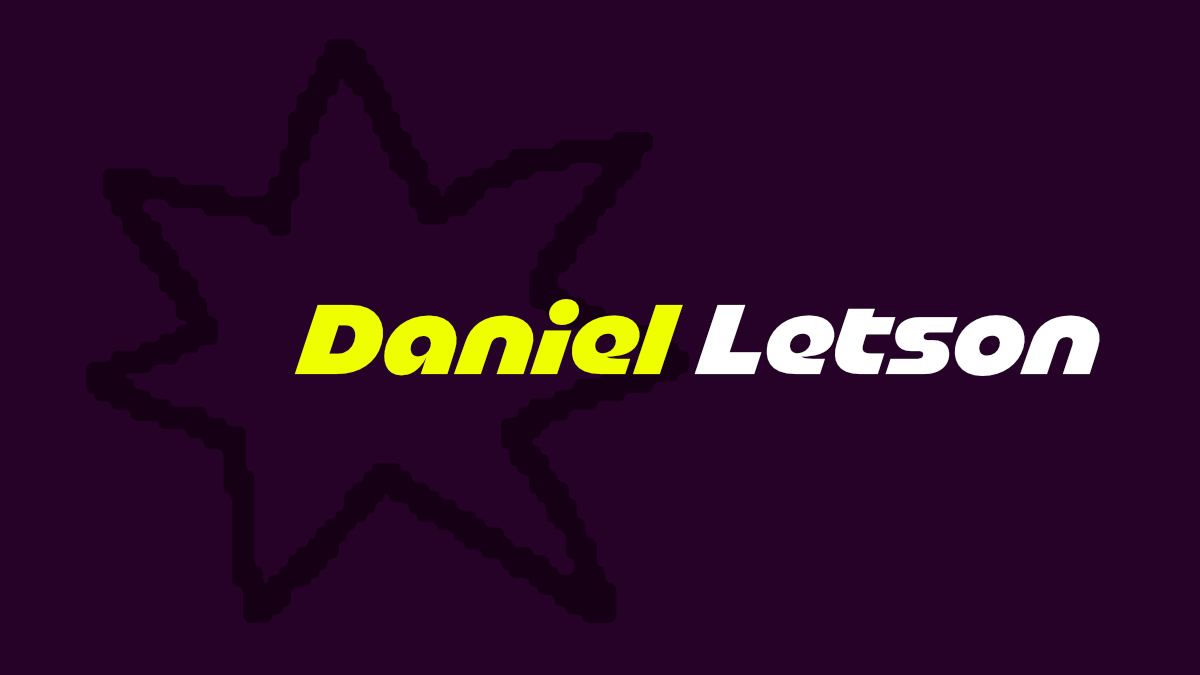
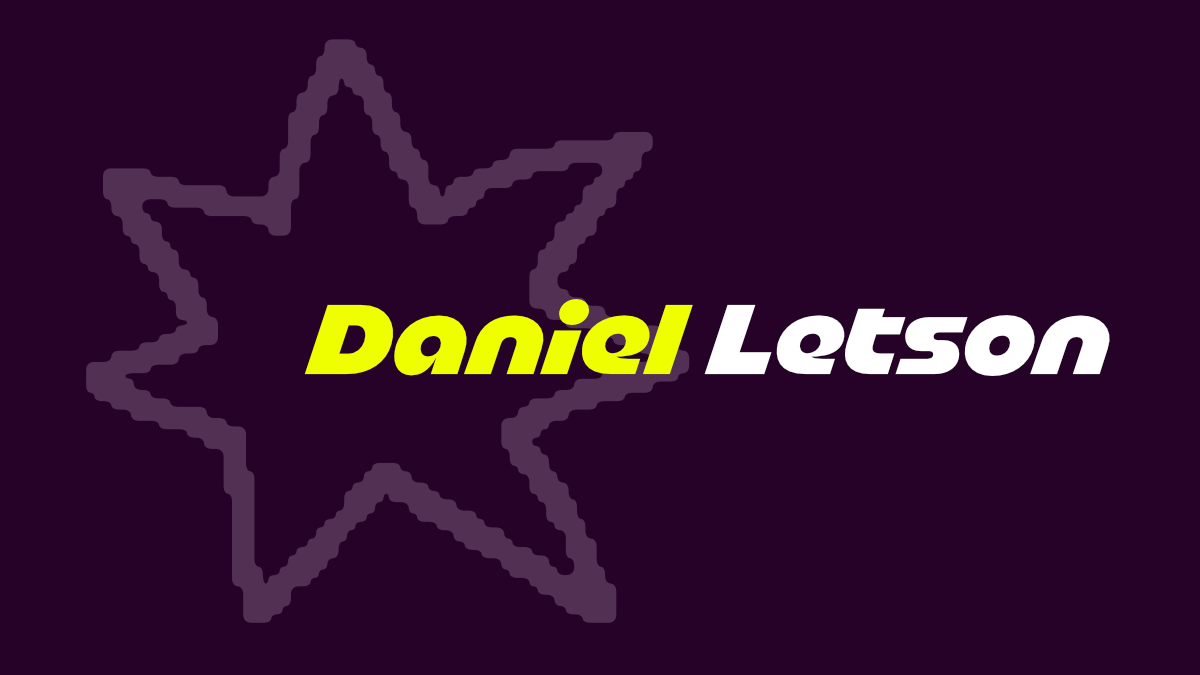
updated header and footer styling and twitter preview image

Changed region(s): [[0.0617, 0.0622, 0.925, 0.9333]]

diff --git a/css/dist/main.css b/css/dist/main.css
@@ -896,8 +896,9 @@ body {
 }
 
 .home-intro .background-image{
-  fill: #150016;
+  fill: #FEEBFF;
   position: absolute;
+  opacity: 0.1;
   height: 32rem;
   top: -8rem;
   left: -6rem;
@@ -957,6 +958,7 @@ main {
 
 main.home {
   margin-top: 3rem;
+  margin-bottom: 0px;
 }
 
 main.resume {
@@ -1262,11 +1264,9 @@ h2 + .tags{
 }
 
 footer{
-  position: fixed;
-  bottom: 0px;
+  /* position: absolute;
+  bottom: 0px; */
   width: 100%;
-  --tw-bg-opacity: 1;
-  background-color: rgb(38 1 40 / var(--tw-bg-opacity));
   padding-top: 0.5rem;
   padding-bottom: 0.5rem;
   --tw-text-opacity: 1;
@@ -1417,7 +1417,7 @@ nav .header-links {
 }
 
 nav .header-links .nav-item, nav>a, button {
-  margin-right: 1rem;
+  margin-right: 1.5rem;
   transition: all .2s ease-out;
   border-bottom: 1px solid transparent;
 }

diff --git a/css/main.css b/css/main.css
@@ -215,8 +215,9 @@ body{
 }
 
 .home-intro .background-image{
-  fill: #150016;
+  fill: #FEEBFF;
   position: absolute;
+  opacity: 0.1;
   height: 32rem;
   top: -8rem;
   left: -6rem;
@@ -272,7 +273,7 @@ main{
 }
 
 main.home{
-  @apply mt-12;
+  @apply mt-12 mb-0;
 }
 
 main.resume{
@@ -479,10 +480,10 @@ h2 + .tags{
 }
 
 footer{
-  position: fixed;
-  bottom: 0px;
+  /* position: absolute;
+  bottom: 0px; */
   width: 100%;
-  @apply py-2 bg-primary-dark text-primary-light;
+  @apply py-2 text-primary-light;
 }
 
 .marquee {
@@ -597,7 +598,7 @@ nav .header-links {
 }
 
 nav .header-links .nav-item, nav>a, button{
-  @apply mr-4;
+  @apply mr-6;
   transition: all .2s ease-out;
   border-bottom: 1px solid transparent;
 }
